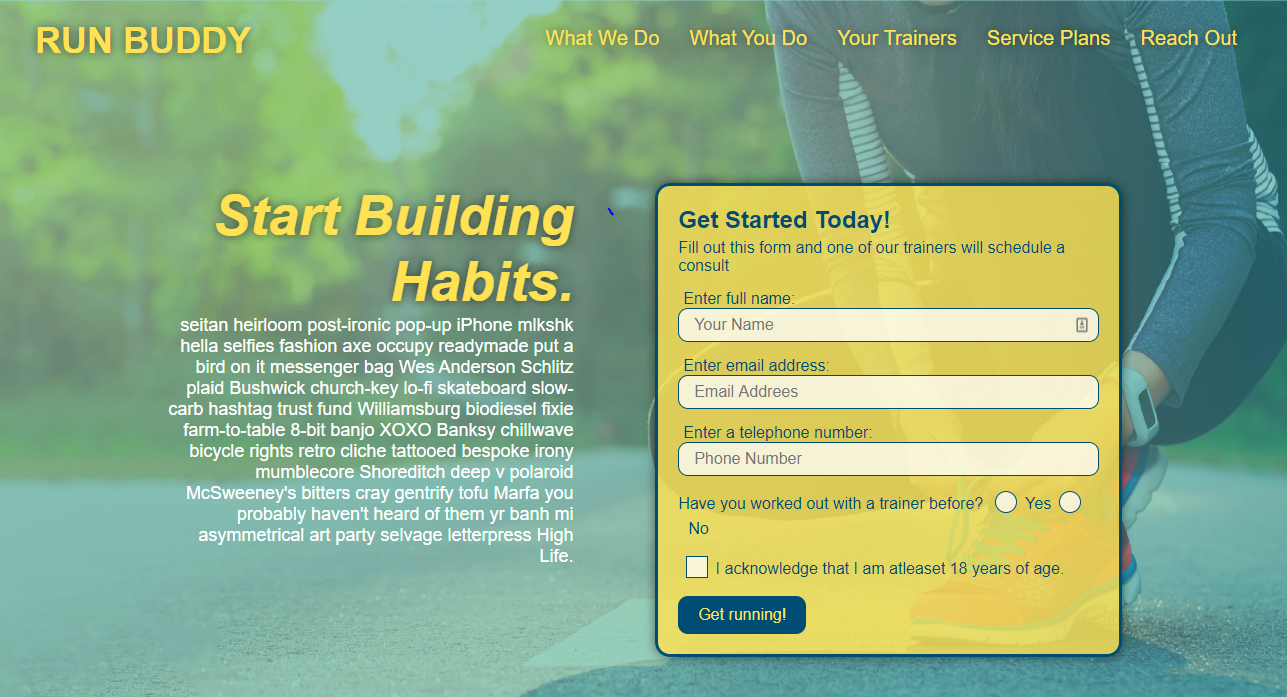
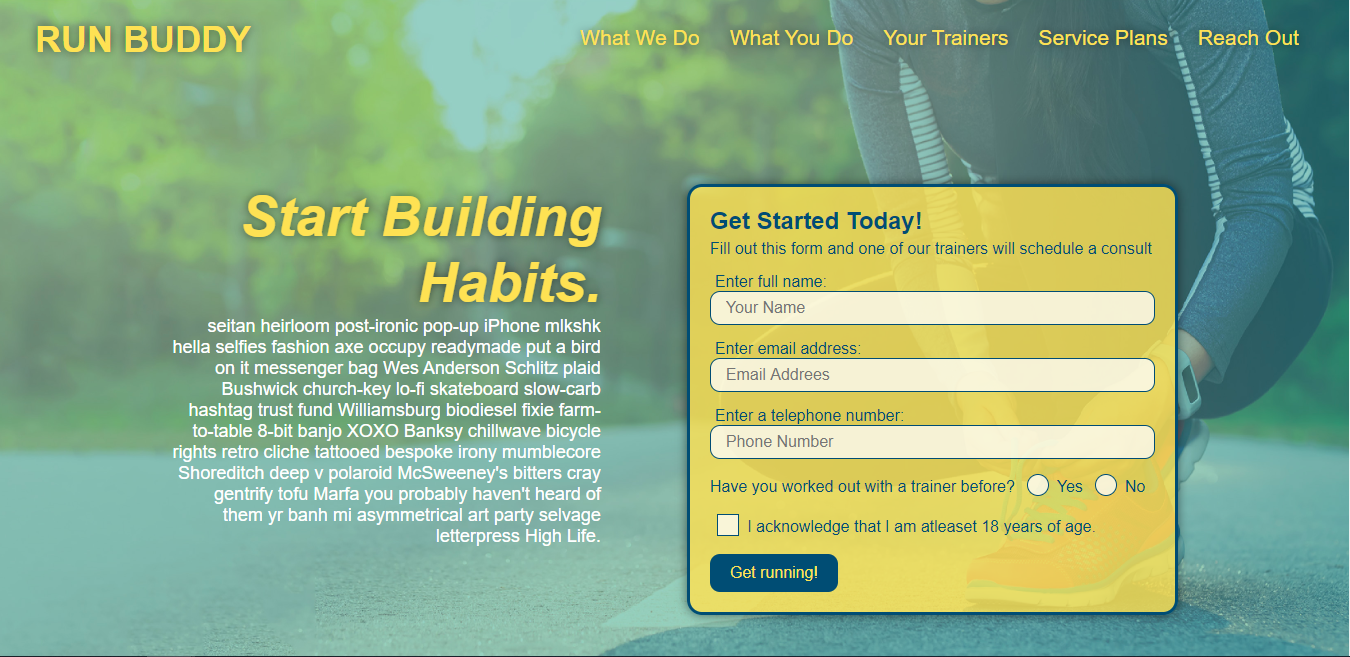
added css grid to work section

diff --git a/css/style.css b/css/style.css
@@ -55,15 +55,14 @@ header nav ul li a {
 .hero {
     background-image: url(/css/images/Background.jpg);
     width: 100%;
-    height: 400px;
+    height: 350px;
     background-size: cover;
     background-position: 100%;
     display: flex;
     justify-content: flex-end;
     align-items: flex-end;
     flex-direction: column;
-    flex-wrap: wrap;
-    
+    flex-wrap: wrap; 
 }
 
 
@@ -103,4 +102,63 @@ header nav ul li a {
     display: flex;
     justify-content: flex-start;
     align-items: flex-start;
+}
+
+/* work section */
+
+.work{
+    display: flex;
+    flex-wrap: wrap;
+}
+
+.section-title {
+    font-size: 38px;
+    width: 20.4%;
+    display: flex;
+    justify-content: flex-end;
+    padding-right: 15px;
+    border-right: solid 3px;
+    /* display: flex;
+    justify-content: flex-end;
+    padding-right: 15px; */
+}
+
+.gallery-container {
+    width: 78%;
+}
+.gallery-container div {
+    display: grid;
+    grid-template-columns: repeat(2, 1fr);
+    grid-template-rows: repeat(3, 1fr);
+    grid-auto-rows: 200px;
+}
+ .item-1 {
+    width: 100%;
+    height: 400px;
+    background-image: url(/css/images/run-buddy.PNG);
+    background-size: 100% 100%;
+ }
+.item-2 {
+    width: 100%;
+    height: 400px;
+    background-image: url(/css/images/horiseon.PNG);
+    background-size: 100% 100%;
+}
+.item-3 {
+    width: 100%;
+    height: 400px;
+    background-image: url(/css/images/house.PNG);
+    background-size: 100% 100%;
+}
+.item-4 {
+    width: 100%;
+    height: 400px;
+    background-image: url(/css/images/fire.PNG);
+    background-size: 100% 100%;
+}
+.item-5{
+    width: 100%;
+    height: 400px;
+    background-image: url(/css/images/water.PNG);
+    background-size: 100% 100%;
 }

diff --git a/index.html b/index.html
@@ -31,7 +31,7 @@
 
     <!-- about me section -->
     <section class="about-me">
-        <img src="/css/images/Profile.JPG" alt="">
+        <img src="/css/images/Profile.JPG" alt="man named Cameron Wills in a suit with a forest in behind him">
             <h2>About <br> Me</h2>
             <p>
                  Lorem ipsum dolor sit amet consectetur adipisicing elit. Autem voluptatibus minima, nobis accusantium, 
@@ -51,14 +51,32 @@
     </section>
 
     <!-- work section -->
-    <section id="work">
-        <h2>Work</h2>
-        <div>
-            
-        </div>
+    <section class="work">
+        <div class="section-title"><h2>Work</h2></div>
+    
+        <section class="gallery-container">
+            <div>
+                <div class="gallery-item item-1">
+                    Run Buddy
+                </div>
+                <div class="gallery-item item-2">
+                    Horiseon
+                </div>
+                <div class="gallery-item item-3">
+                    House app
+                </div>
+                <div class="gallery-item item-4">
+                    Fire app
+                </div>
+                <div class="gallery-item item-5">
+                    Water app
+                </div>
+            </div>
+        </section>
     </section>
+    
     <!-- contact me section -->
-    <section id="contact-me">
+    <section class="contact-me">
         <h2>Contact Me</h2>
     </section>
 
